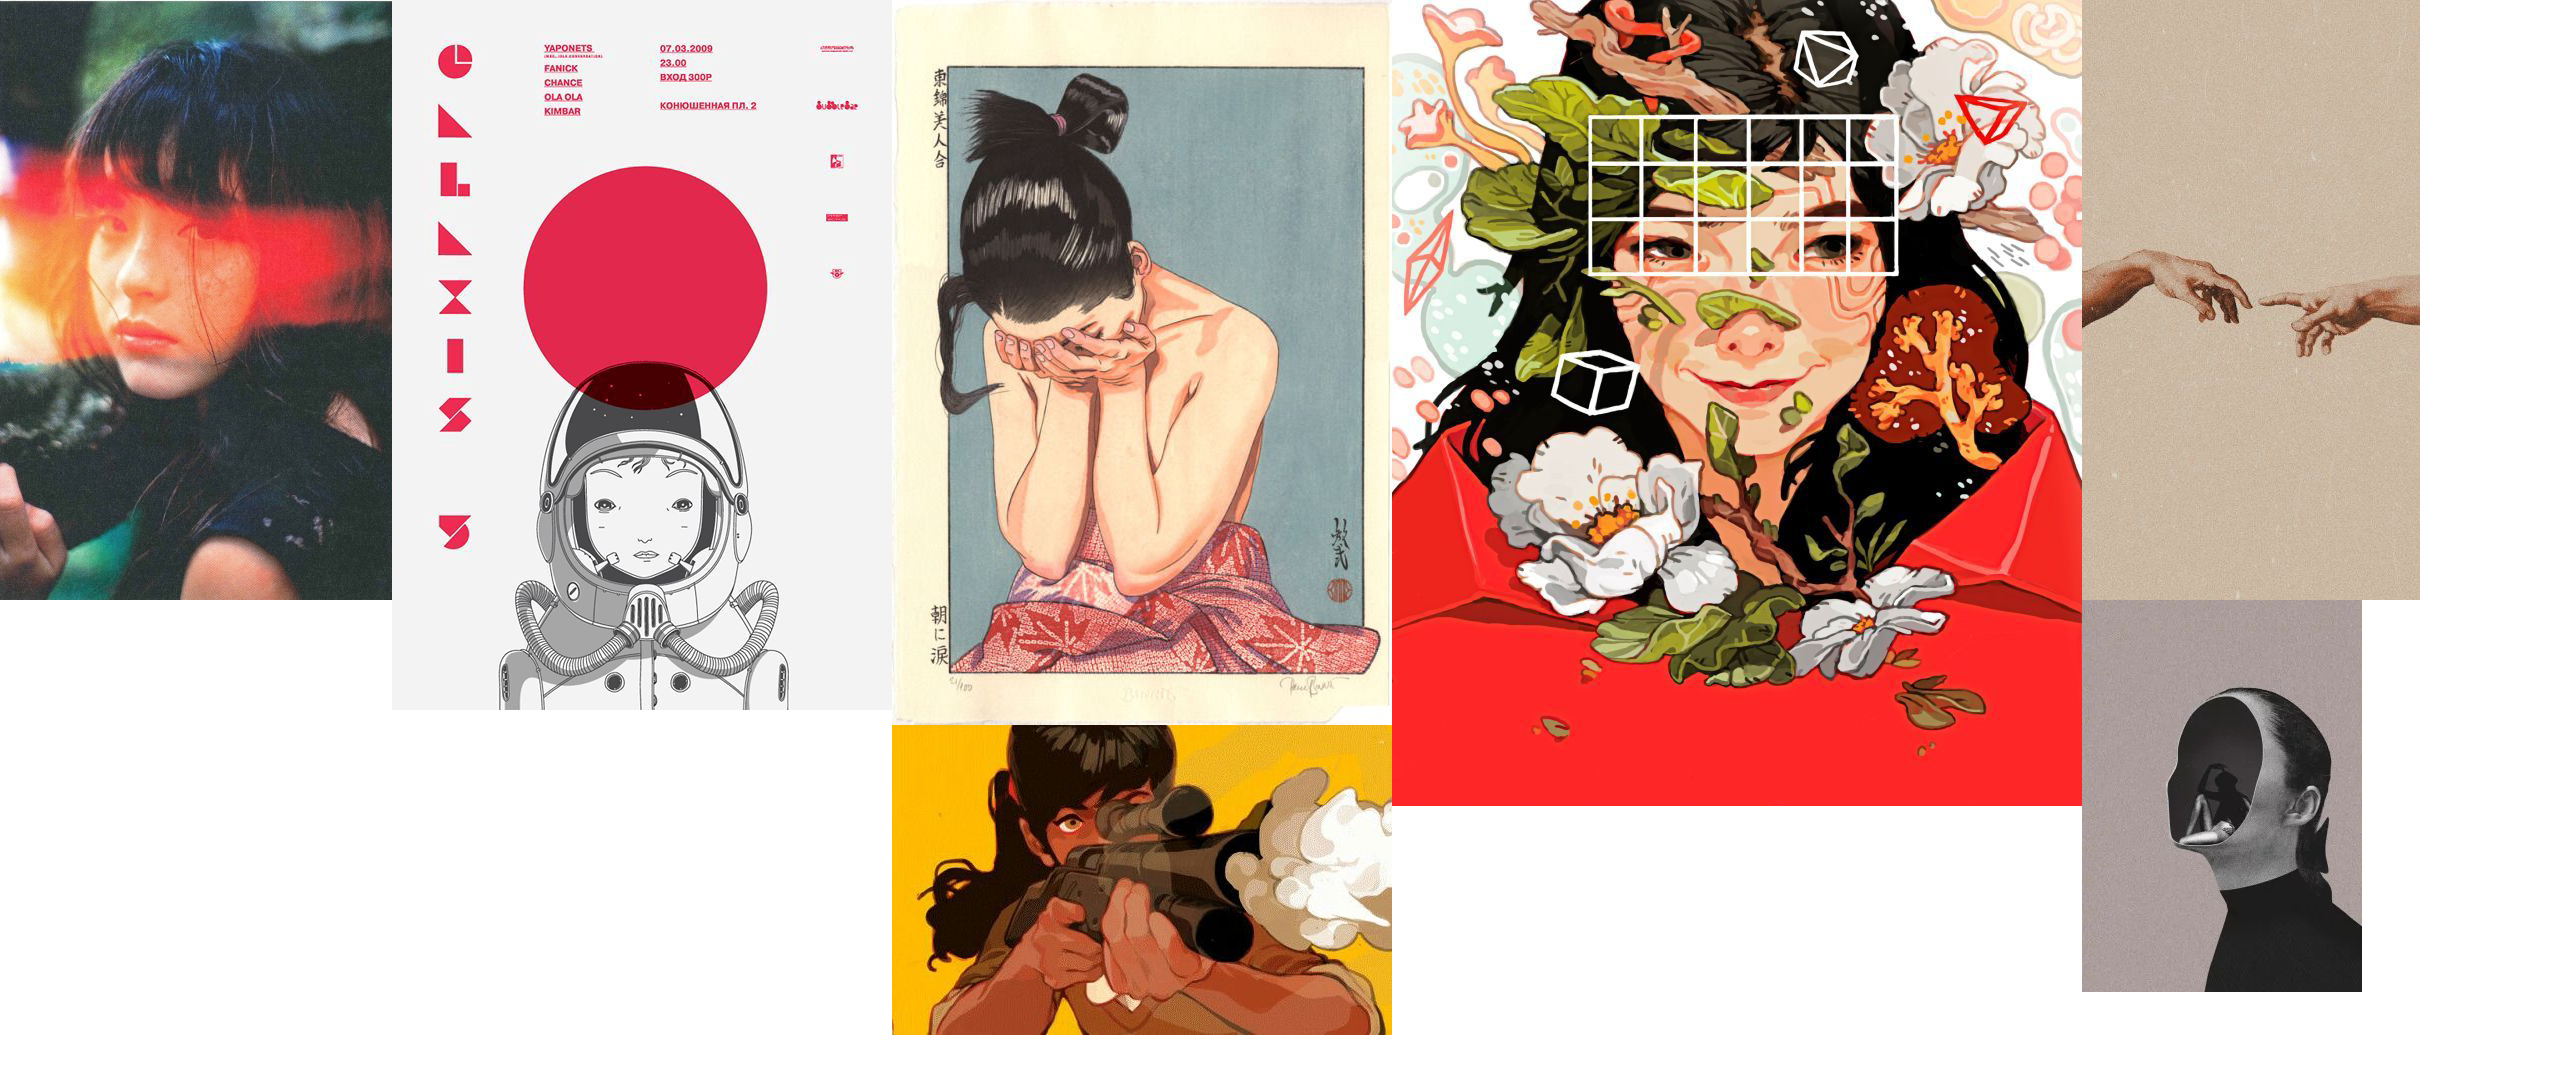
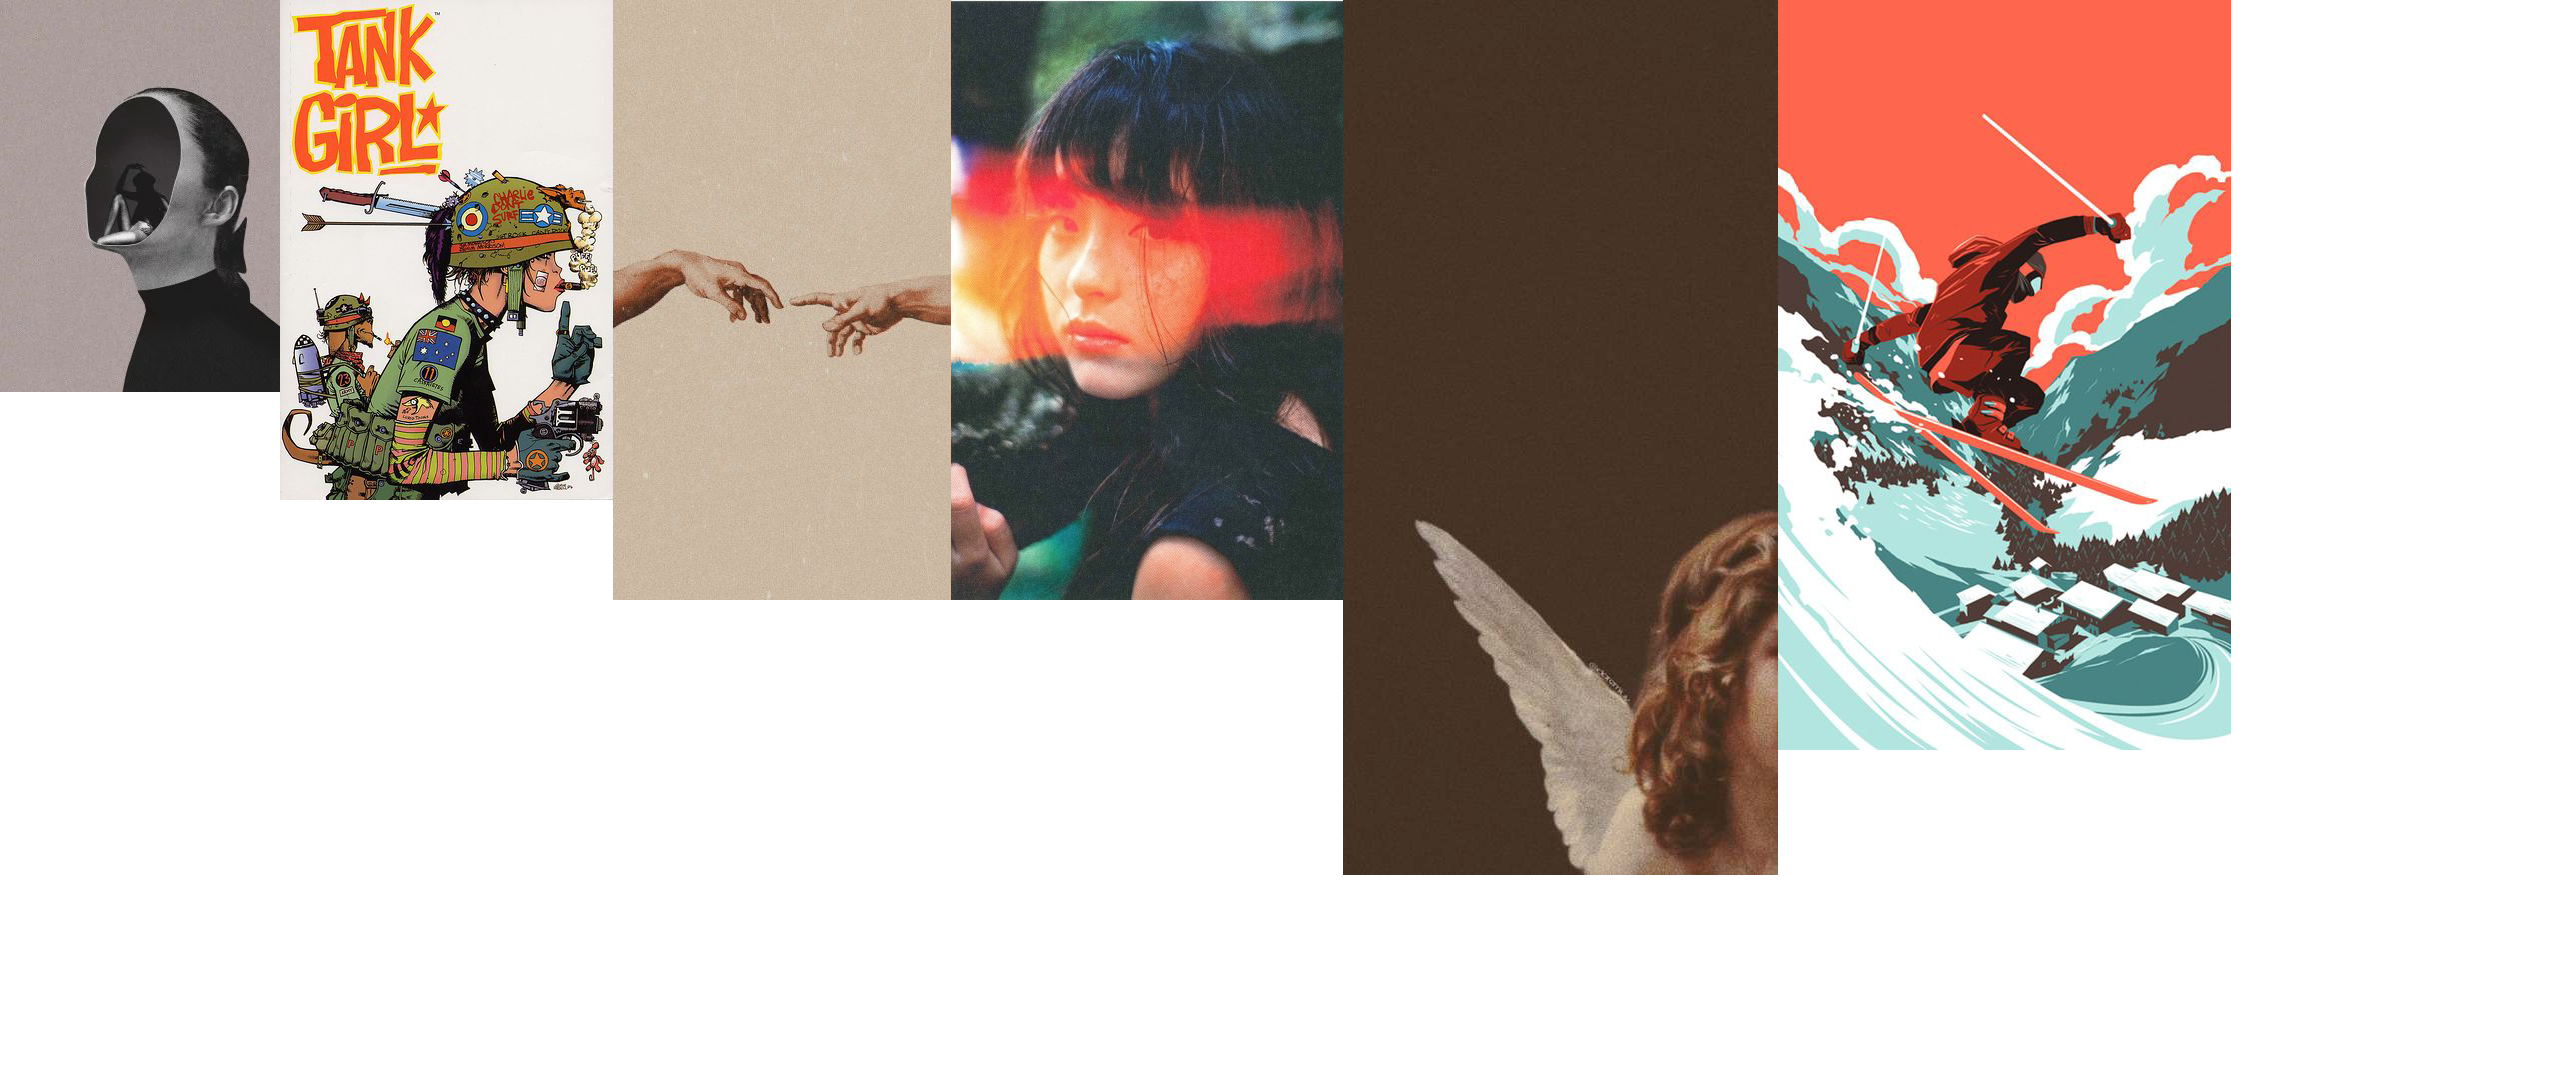
Change the way packing works so it favours smaller image.

diff --git a/packing/packer.go b/packing/packer.go
@@ -26,10 +26,11 @@ func (a BySize) Less(i, j int) bool {
 }
 
 type Packer struct {
-	partitions []Partition
-	img *image.RGBA
+	partitions  []Partition
+	metas       []Meta
+	img         *image.RGBA
 	numberOfImg int
-	debug *os.File
+	debug       *os.File
 }
 
 func CreatePacker(width, height int) Packer {
@@ -45,11 +46,35 @@ func CreatePacker(width, height int) Packer {
 			Max: image.Point{X: width, Y: height},
 		}),
 		numberOfImg: 0,
-		debug: debugFie,
+		debug:       debugFie,
 	}
 }
 
-func (p *Packer) AddImage(newImg image.RGBA)  {
+func (p *Packer) GenerateMetas(paths []string) {
+	p.metas = GenerateMetas(paths)
+}
+
+func (p *Packer) Pack() {
+	// First pass, try to push full size img to main canvas
+	i := 0
+	for true {
+		if i == len(p.metas) {
+			break
+		}
+
+		success, err := p.OpenAndAddImage(p.metas[i].path)
+		must(err)
+
+		if success {
+			// Delete this meta
+			p.metas = append(p.metas[:i], p.metas[i+1:]...)
+		} else {
+			i++
+		}
+	}
+}
+
+func (p *Packer) AddImage(newImg image.RGBA) bool {
 	// Step 1: Check for available partition
 	width, height := newImg.Bounds().Dx(), newImg.Bounds().Dy()
 	for i := range p.partitions {
@@ -80,32 +105,33 @@ func (p *Packer) AddImage(newImg image.RGBA)  {
 			sort.Sort(BySize(p.partitions))
 
 			p.numberOfImg++
-			return
+			return true
 		}
 	}
 
 	p.Debug("Cannot find suitable partition")
+	return false
 }
 
-func (p *Packer) OpenAndAddImage(path string) error {
+func (p *Packer) OpenAndAddImage(path string) (bool, error) {
 	p.Debug("Finding suitable partition for " + path)
 
 	f, err := os.Open(path)
 	if err != nil {
-		return err
+		return false, err
 	}
 	defer f.Close()
 
 	img, _, err := image.Decode(f)
 	if err != nil {
-		return err
+		return false, err
 	}
 
 	rgbaImg := image.NewRGBA(image.Rect(0, 0, img.Bounds().Dx(), img.Bounds().Dy()))
 	draw.Draw(rgbaImg, rgbaImg.Bounds(), img, img.Bounds().Min, draw.Src)
-	p.AddImage(*rgbaImg)
+	success := p.AddImage(*rgbaImg)
 
-	return nil
+	return success, nil
 }
 
 func (p Packer) ToFile(path string) {

diff --git a/cmd/main.go b/cmd/main.go
@@ -6,15 +6,14 @@ import (
 	"path/filepath"
 )
 
-func main()  {
+func main() {
 	paths, _ := filepath.Glob("/home/atran/Desktop/inspiration/*")
 	packer := packing.CreatePacker(2560, 1080)
 	defer packer.Clean()
 
-	for i := range paths {
-		fmt.Println("Ading", paths[i])
-		_ = packer.OpenAndAddImage(paths[i])
-	}
+	packer.GenerateMetas(paths)
+	packer.Pack()
+
 	packer.ToFile("result.png")
 	fmt.Println("Done.")
 }
